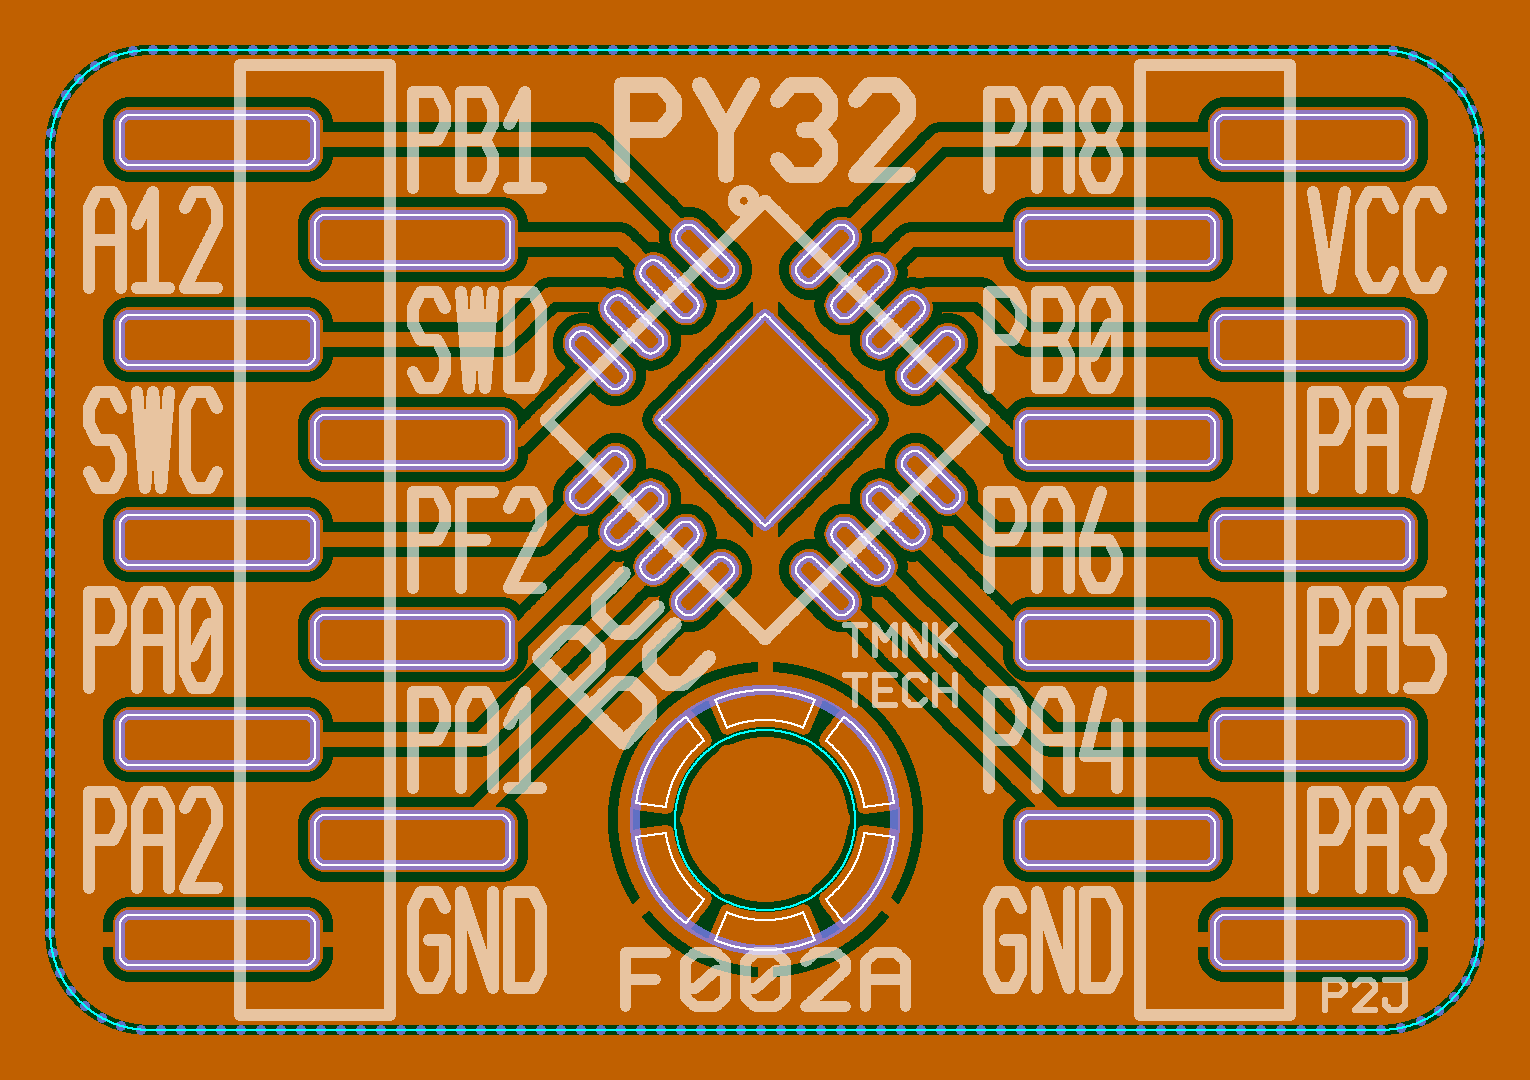
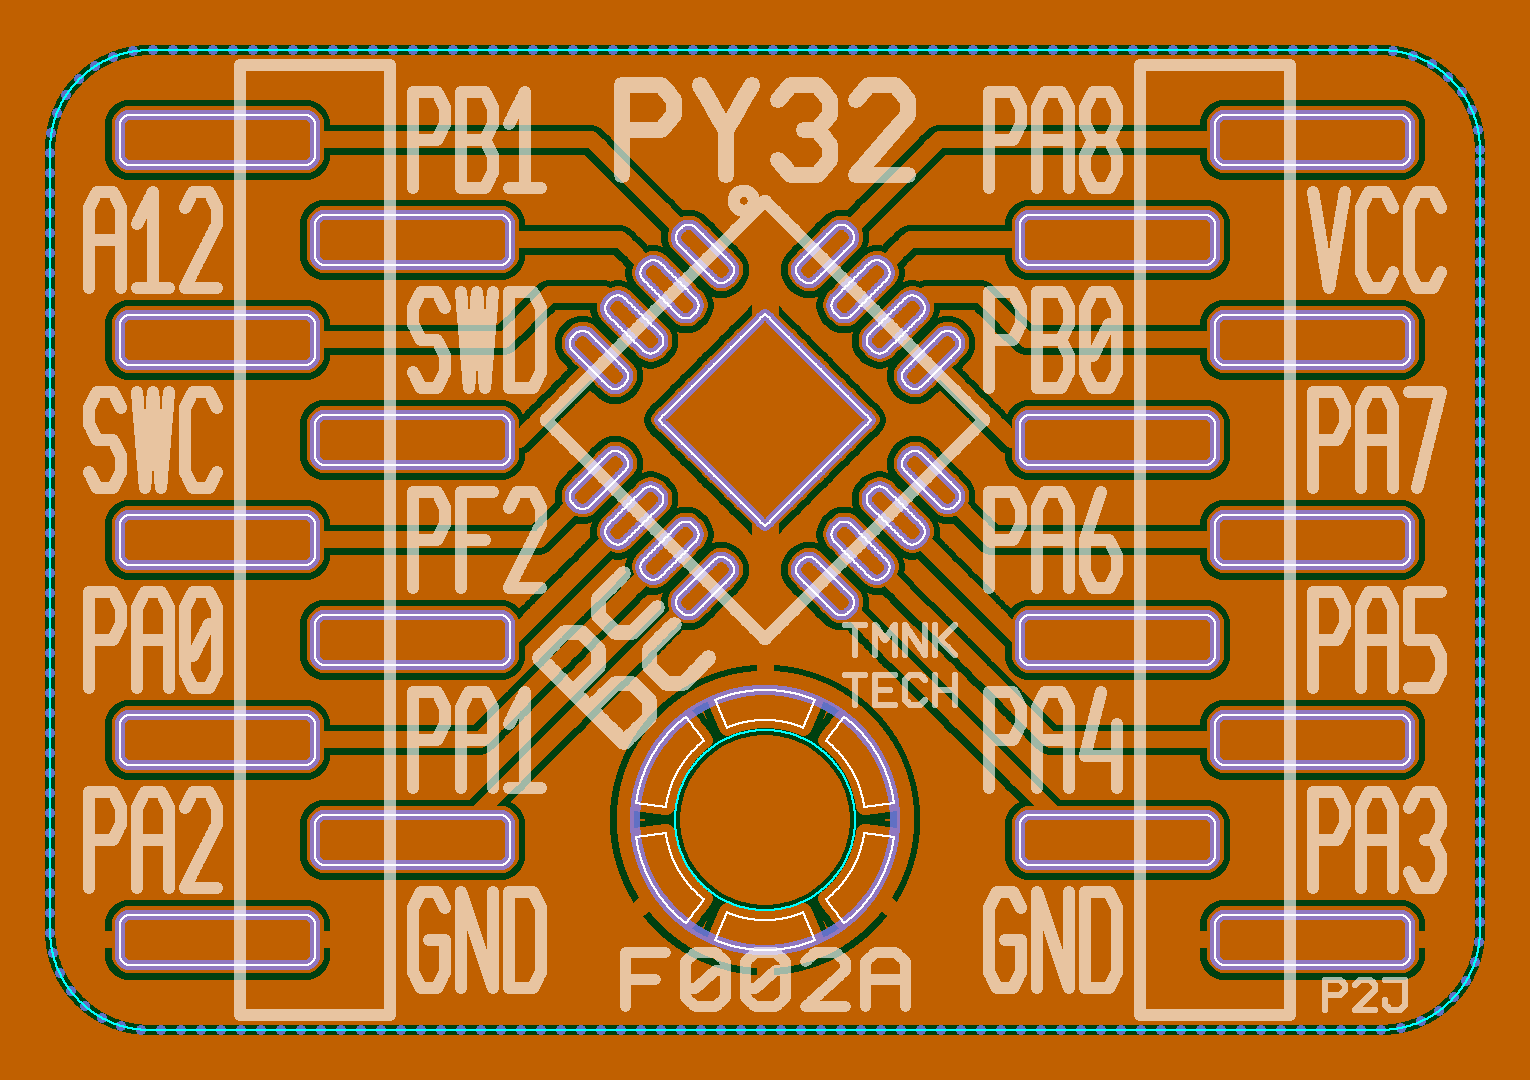
Experiment to reduce copper removal

diff --git a/boards/puya/qfn16/board_test.go b/boards/puya/qfn16/board_test.go
@@ -12,7 +12,7 @@ import (
 func TestBoard(t *testing.T) {
 	Board.TrackWidth = 0.15
 	config := config.Default()
-	config.ExtraCopperWidth = 0
+	config.ExtraCopperWidth = 0.025
 	config.ExtraPadCopperWidth = 0.15
 	config.CopperClearWidth = 0.1
 	assert.NoError(t, pcb.Process(config, Board))
